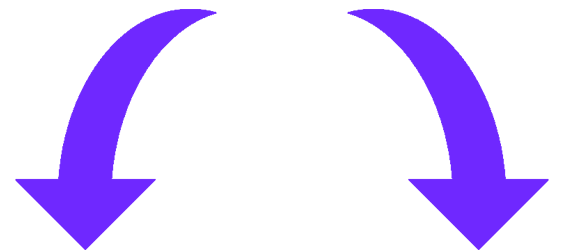
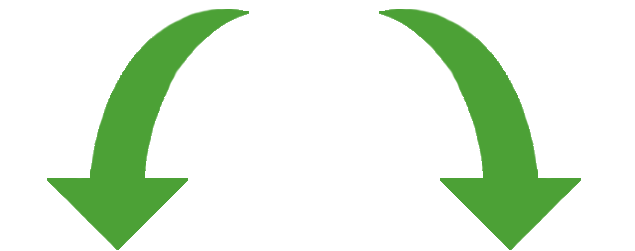
arrow made green

Changed region(s): [[0.5965, 0.0279, 0.9842, 1.0], [0.0298, 0.0279, 0.3877, 1.0]]

diff --git a/public/expected.html b/public/expected.html
@@ -1,6 +1,4 @@
 
- 
-
 
 <style>
 .header{
@@ -77,7 +75,7 @@
         </div>
     </div>
     <div class="row">
-        <div class="col-md-12 col-sm-offset-3">
+        <div class="col-md-12 col-sm-offset-2">
             <div id="bigArrows" class="header">
                 <img src="/assets/img/breakdown-arrow.png" alt="Mountain View" class="img-responsive">
             </div>
